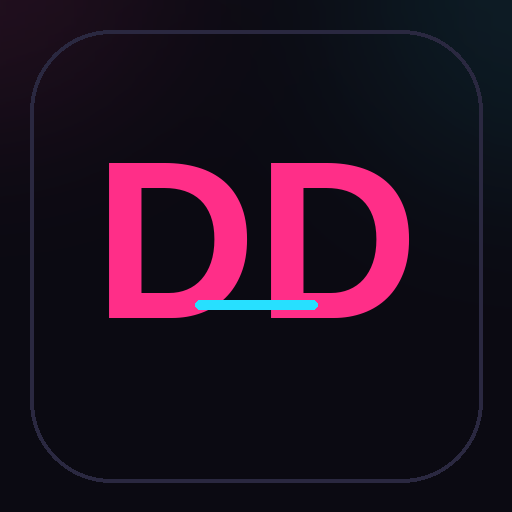
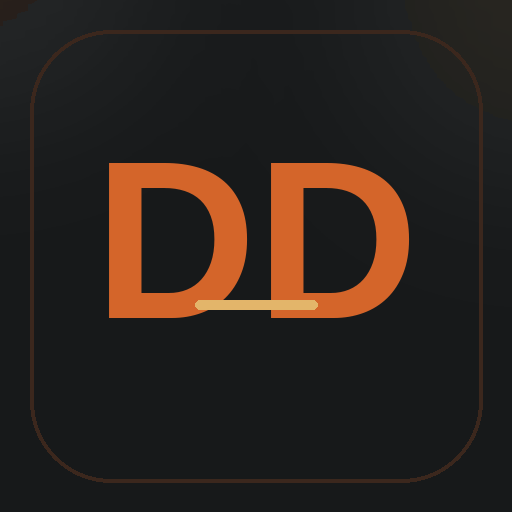
Standardfarben wie v2 „Industriegelände“: Graphit und Elbe-Orange
Pink/Cyan ersetzt: Hintergrund Graphit, Akzent Orange (#d4652a) mit dunkler
Schrift auf Knöpfen, Wochenende in Sand, Herz in Rot, orangener Schimmer oben.
Manifest, theme-color und App-Icons angepasst.

Claude-Session: https://claude.ai/code/session_01SDsb2962dv1d3H3fSbchLK

diff --git a/ddwg/vorlage/index.html b/ddwg/vorlage/index.html
@@ -3,7 +3,7 @@
 <head>
 <meta charset="utf-8">
 <meta name="viewport" content="width=device-width, initial-scale=1, viewport-fit=cover">
-<meta name="theme-color" content="#0b0a12">
+<meta name="theme-color" content="#17191a">
 <link rel="manifest" href="manifest.webmanifest">
 <link rel="icon" href="icon-192.png" sizes="192x192" type="image/png">
 <link rel="apple-touch-icon" href="icon-180.png">
@@ -11,15 +11,16 @@
 <style>/*__SCHRIFT__*/</style>
 <style>
 :root {
-  --bg:#0b0a12; --surface:#15141f; --surface2:#1f1d2e; --ink:#f3f0ff; --soft:#b4afcc; --faint:#77718f;
-  --line:#2a2840; --accent:#ff2e88; --on-accent:#fff; --accent2:#27e0ff; --heart:#ff4d6d;
+  /* Standardfarben wie v2 „Industriegelände“: Graphit, Elbe-Orange; Wochenende in Sand */
+  --bg:#17191a; --surface:#1e2123; --surface2:#242829; --ink:#e4e6e3; --soft:#9aa09c; --faint:#7a817c;
+  --line:#2a2e2c; --accent:#d4652a; --on-accent:#17191a; --accent2:#e3b56a; --heart:#e5484d;
   --f:'TeX Gyre Heros', 'Helvetica Neue', Helvetica, Arial, sans-serif;
   --r:14px; --r-s:10px; --rail:58px; --schritt:74px; --mitte:40vh;
 }
 * { box-sizing: border-box; }
 html, body { margin: 0; background: var(--bg); color: var(--ink); }
 body { font: 15px/1.4 var(--f); -webkit-font-smoothing: antialiased; min-height: 100vh; }
-body::before { content: ""; position: fixed; inset: 0; pointer-events: none; z-index: 0; background: radial-gradient(70% 40% at 10% -5%, rgba(255,46,136,.18), transparent 70%), radial-gradient(60% 35% at 105% 10%, rgba(39,224,255,.12), transparent 70%); }
+body::before { content: ""; position: fixed; inset: 0; pointer-events: none; z-index: 0; background: radial-gradient(85% 45% at 35% 22%, rgba(212,101,42,.22), transparent 72%); }
 button { font: inherit; color: inherit; background: none; border: 0; padding: 0; cursor: pointer; text-align: inherit; }
 a { color: var(--accent); }
 svg { flex: none; }
@@ -73,7 +74,7 @@ main { flex: 1; }
 .medium { display: block; width: 100%; aspect-ratio: 1; object-fit: cover; background: var(--surface2); }
 .poster { display: flex; align-items: flex-end; padding: 10px; overflow: hidden; font-weight: 700; font-size: 20px; line-height: 1.02; word-break: break-word; hyphens: auto; letter-spacing: -.01em; }
 .p0 { background: var(--accent); color: var(--on-accent); }
-.p1 { background: linear-gradient(135deg, var(--accent), var(--accent2)); color: #fff; }
+.p1 { background: linear-gradient(135deg, var(--accent), var(--accent2)); color: var(--on-accent); }
 .p2 { background: var(--surface2); color: var(--accent); box-shadow: inset 0 0 0 2px var(--accent); }
 .p3 { background: var(--surface2); color: var(--accent2); box-shadow: inset 0 0 0 2px var(--accent2); }
 .herz-b { position: absolute; top: 8px; left: 8px; display: inline-flex; align-items: center; gap: 3px; padding: 2px 7px 2px 5px; border-radius: 999px; background: var(--heart); color: #fff; font-size: 10.5px; font-weight: 700; }
